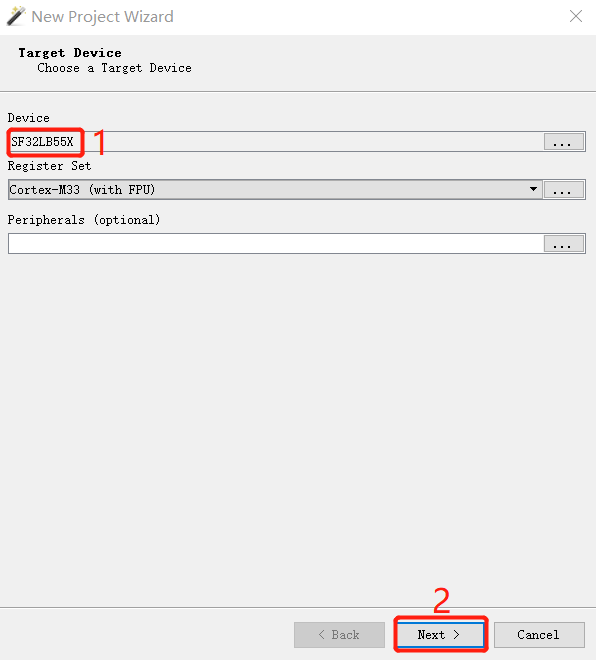
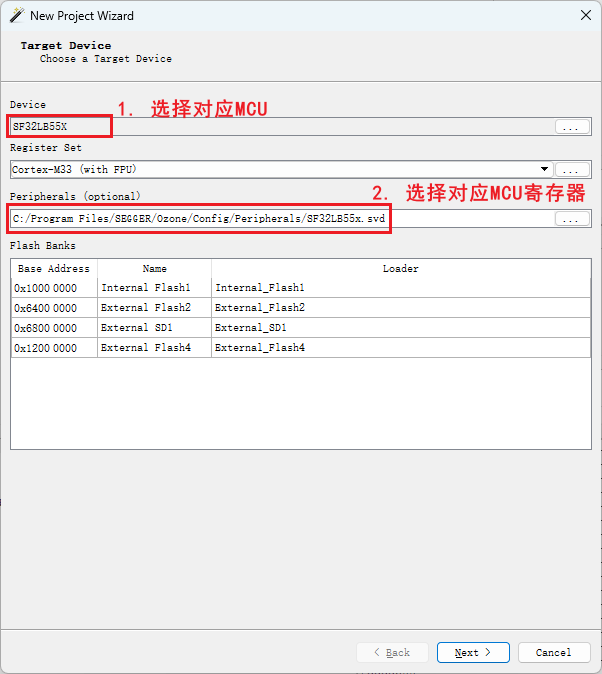
添加ozone和trace32在乱硬件工具汇总的下载链接，添加4.1 Ozone下载和配置方法，更新ozone章节4.2/4.3/4.4

diff --git a/source/faq/tools/ozone.md b/source/faq/tools/ozone.md
@@ -1,55 +1,90 @@
 # 4 Ozone
-## 4.1 Ozone debug连接不成功，
+## 4.1 Ozone下载和配置方法
+1. 下载Ozone<br>
+可以直接在Segger公司官网下载，如果是windows系统，选择windows版本，Ozone版本可以选择最新的
+![alt text](./assets/ozone013.png)<br> 
+Segger公司的在线调试工具下载地址<br>
+[Ozone - The J-Link Debugger Windows 64-bit Installer](https://www.segger.cn/downloads/jlink/#Ozone) [[调试死机方法](../faq/tools/ozone.md/)]
+ 2. 配置Device、MCU外设寄存器和RT-Thread OS脚本<br> 
+ A. 把`SiFli-SDK\tools\flash\jlink_drv\JLinkDevices.xml`文件替换Ozone配置`C:\Users\yourname\AppData\Roaming\SEGGER\JLinkDevices\JLinkDevices.xml`，另外`C:\Users\yourname\AppData\Roaming\SEGGER\JLinkDevices\Devices\`目录下，要创建一个目录SiFli，并把`SiFli-SDK-i\tools\flash\jlink_drv\sf32lb52x\SF32LB52X_*.elf`复制过去，对应目录和文件如下：<br> 
+ ![alt text](./assets/ozone016.png)<br>
+ Jlink烧录驱动对应关系见文件JLinkDevices.xml的内容：<br>
+ ```xml
+<Device>
+    <ChipInfo Vendor="SiFli" Name="SF32LB52X_NOR" Core="JLINK_CORE_CORTEX_M33" WorkRAMAddr="0x20000000" WorkRAMSize="0x60000" />
+    <FlashBankInfo Name="Internal Flash1" BaseAddr="0x10000000" MaxSize="0x8000000"  Loader="Devices/SiFli/SF32LB52X_INT_FLASH1.elf" LoaderType="FLASH_ALGO_TYPE_OPEN" AlwaysPresent="1"/>
+    <FlashBankInfo Name="External Flash2" BaseAddr="0x12000000" MaxSize="0x8000000" Loader="Devices/SiFli/SF32LB52X_EXT_FLASH2.elf" LoaderType="FLASH_ALGO_TYPE_OPEN" AlwaysPresent="1"/>
+</Device>
+ ```
+ B. 把`D:\sifli\git\SiFli-SDK-i\tools\svd_external\SF32LB52X\SF32LB52x.*`外设寄存器配置文件复制到`C:\Program Files\SEGGER\Ozone\Config\Peripherals`目录下；<br> 
+ C. 把`SiFli-SDK\tools\segger\RtThreadOSPlugin.js`复制到`C:\Program Files\SEGGER\Ozone\Plugins\OS\`目录下，对应目录和文件如下：<br> 
+![alt text](./assets/ozone017.png)<br> 
+ 配置A/B/C三项后，打开Ozone后，可以选择到需要调试的Devices和MCU外设寄存器<br> 
+![alt text](./assets/ozone014.png)<br> 
+
+ 配置好MCU外设寄存器和RT-Thread OS脚本后，进入Ozone界面，可以查看对应MCU外设寄存器和OS线程<br> 
+![alt text](./assets/ozone015.png)<br> 
+## 4.2 Ozone Debug连接不成功
 提示:<br>
 ![alt text](./assets/ozone001.png)<br>   
 你需要按照jlink一样，添加好flash的驱动和xml配置文件， 这样Ozone才支持SF32LB55X芯片.<br>
-```
+```xml
 C:\Program Files\SEGGER\Ozone\Devices\SiFli\SF32LB55X****.elf
 C:\Program Files\SEGGER\Ozone\JLinkDevices.xml
+#不同Jlink或者Ozone版本的路径可能如下：
+C:\Users\yourname\AppData\Roaming\SEGGER\JLinkDevices.xml
+C:\Users\yourname\AppData\Roaming\SEGGER\JLinkDevices\Devices\SF32LB55X****.elf
 ```
-## 4.2 Ozone或者keil如何单步debug Lcpu
-1， jlink默认connect会连接到hcpu,可以直接debug Hcpu，如果要debug Lcpu，可以在windows cmd命令窗口执行SDK\tools\segger\jlink_lcpu_a0.bat， 执行该批处理，其实执行的是\tools\segger\jlink_lcpu_a0.jlink里面的几条命令:<br>
+## 4.3 Ozone单步调试Debug
+1， Jlink默认connect会连接到hcpu，如果调试Hcpu，这一步可以跳过，直接debug Hcpu，如果要debug Lcpu，可以在windows cmd命令窗口执行SDK\tools\segger\jlink_lcpu_a0.bat（55），jlink_lcpu_pro.bat（58），jlink_lcpu_56x.bat（56）， 执行该批处理，执行的是\tools\segger\jlink_lcpu_xxx.jlink里面的几条命令:<br>
 ```
 w4 0x4004f000 1
 connect
 w4 0x40070000 0 
 exit
 ```
-也可以直接在jlink窗口依次输入这两条命令，切换到lcpu.<br>
+也可以直接在Jlink窗口依次输入这两条命令，切换到lcpu.<br>
 ![alt text](./assets/ozone002.png)<br>   
-2， 现在以Ozone为例，演示Lcpu单步运行， 先创建一个新项目<br>
+也可以在代码中，写寄存器把SWD Jlink切到Lcpu调试；<br>
+2， 现在以55为例，演示Lcpu单步运行， 先创建一个新项目<br>
 ![alt text](./assets/ozone003.png)<br>    
 3， 选择调试芯片，
 如果找不到，需要在
 C:\Program Files\SEGGER\Ozone\JLinkDevices.xml 添加55x芯片型号配置
-和C:\Program Files\SEGGER\Ozone\Devices\SiFli\SF32LB55X_******.elf  四个flash烧录文件<br>
+和C:\Program Files\SEGGER\Ozone\Devices\SiFli\SF32LB55X_****.elf  四个flash烧录文件<br>
 ![alt text](./assets/ozone004.png)<br>    
 4， 选择已经连接PC的jlink器件， 如果找不到，检查jlink连接和jlink供电<br>
-5， 选择你编译出来的lcpu的*.axf文件，如果是watch_demo工程，路径会在
+5， 选择你编译出来的*.axf或者*.elf文件，如果是watch_demo工程，Lcpu的axf路径会在
 ```
 \release\example\rom_bin\lcpu_general_ble_img\lcpu_general_551.axf
 ```
 ![alt text](./assets/ozone005.png)<br>    
-6，下一步都选择Do no set选项， finish完成<br>
+6，选择Jlink或者SifliUsartServer.exe虚拟的ip<br> 
+![alt text](./assets/ozone019.png)<br> 
+52默认为uart为调试口，需要SifliUsartServer.exe连接后，用ip 127.0.0.1:19025
+![alt text](./assets/ozone018.png)<br> 
+7，下一步是选择初始化PC指针和初始的堆栈从哪里获取，选择默认或者选择Do no set选项都行， finish完成<br>
 ![alt text](./assets/ozone006.png)<br>    
-7， Attach并且halt Program 就是让jlink连接到lcpu，并停在当前运行的PC指针，
+8， Attach并且halt Program 就是让jlink连接到lcpu，并停在当前运行的PC指针，
 Attch并且Running Program就是让jlink连接到lcpu，并且开始从当前PC继续运行程序，<br>
 ![alt text](./assets/ozone007.png)<br>    
-8，点击运行程序箭头图标后， 可以看到lcpu已经可以单步运行，并且添加断点，查看栈信息和寄存器状态.<br>
+9，点击运行程序箭头图标后， 可以看到lcpu已经可以单步运行，可以添加断点，查看栈信息和寄存器状态.<br>
 ![alt text](./assets/ozone008.png)<br>   
  
-## 4.3 Ozone连接出现连接丢失问题
+## 4.4 Ozone连接后出现断连问题
 经常连接一会就会出现如下Target Connection Lost的对话框，然后连接丢失<br>
 ![alt text](./assets/ozone009.png)<br>    
-如果碰到以上问题，请更换Ozone的版本到Ozone_Windows_V320d_x64.zip版本，实测非常稳定。<br>
-## 4.4 Ozone使能RTThread RTOS在线调试
+如果碰到以上问题，在连接Ozone进行调试前，请关闭Ozone的内存Memory窗口和其他不用的窗口，如下窗口读取了不存在的内存地址或者读取了尚未初始化好的PSRAM内存：<br>
+![alt text](./assets/ozone020.png)<br> 
+因为Ozone在连接的时候去读这些内存内容，如果读取失败就会出现断连。<br>
+## 4.5 Ozone使能RTThread RTOS在线调试
 复制\sdk\tools\segger\RtThreadOSPlugin.js文件到Ozone的安装目录:<br>
 `C:\Program Files\SEGGER\Ozone\Plugins\OS\RtThreadOSPlugin.js`<br>
 并且打开该文件，按照下面步骤操作，就可以使用Ozone在线切换RTThread线程进行查看和调试。<br>
 ![alt text](./assets/ozone010.png)<br>    
 Ozone连接后，并使能Project.SetOSPlugin("RtThreadOSPlugin");的现场如下：<br>
  ![alt text](./assets/ozone011.png)<br>    
-## 4.5 Ozone重定义文件路径
+## 4.6 Ozone重定义文件路径
 在烧录的bin的路径不是本地编译的情况下，用Ozone进行Debug，会提示File not find，无法定位到相应的c源代码，从而无法进行逐条跟踪定位问题。<br>
 ![alt text](./assets/ozone012.png)<br>     
 解决方法：<br>

diff --git a/source/tools/index.md b/source/tools/index.md
@@ -34,6 +34,13 @@
 *   - GraphicsTool
     - 图片/视频转换工具，用于生成思澈平台图形显示素材
     - [GraphicsTool工具包][GraphicsTool]
+*   - Ozone
+    - Segger公司的在线调试工具 [[使用方法](../faq/tools/ozone.md/)]
+    - [Ozone - The J-Link Debugger Windows 64-bit Installer](https://www.segger.cn/downloads/jlink/#Ozone)
+*   - Trace32
+    - Lauterbach公司的离线调试工具 [[使用方法](../faq/tools/trace32.md/)]
+    - [Simulator for ARM/CORTEX/XSCALE
+  simarm.zip](https://repo.lauterbach.com/download_demo.html)
 :::
 
 
